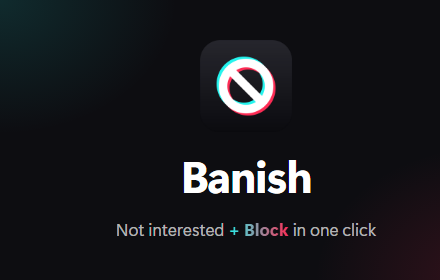
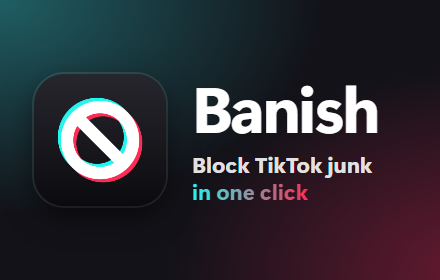
Redesign small promo tile for legibility at store size
Horizontal layout: large icon, white wordmark, short tagline sized to stay readable when the store shows the tile at half size. Keep local store helpers (.cws/) out of git.

diff --git a/store/src/promo-small.html b/store/src/promo-small.html
@@ -1,10 +1,24 @@
 <!doctype html>
-<html><head><meta charset="utf-8"><link rel="stylesheet" href="base.css"></head>
+<html><head><meta charset="utf-8"><link rel="stylesheet" href="base.css">
+<style>
+  /* Small tile is shown at roughly half size in the store: big shapes, few words, strong contrast. */
+  .tile { position: absolute; inset: 0; overflow: hidden;
+    background: radial-gradient(120% 140% at 0% 0%, #1f5e63 0%, transparent 55%),
+                radial-gradient(120% 140% at 100% 100%, #6b1a32 0%, transparent 55%), #121218; }
+  .row { position: absolute; inset: 0; display: flex; align-items: center; gap: 26px; padding: 0 34px; }
+  .row img { width: 132px; height: 132px; flex: none; border-radius: 30px;
+    box-shadow: 0 10px 30px rgba(0,0,0,.5), 0 0 0 2px rgba(255,255,255,.12); }
+  .name { font-size: 64px; font-weight: 800; letter-spacing: -.03em; line-height: 1; color: #fff; }
+  .tag { margin-top: 12px; font-size: 22px; font-weight: 700; line-height: 1.25; color: rgba(255,255,255,.88); }
+  .tag .grad { font-weight: 800; }
+</style></head>
 <body>
-<div class="bg"></div>
-<div style="position:absolute; inset:0; display:flex; flex-direction:column; align-items:center; justify-content:center; gap:14px; text-align:center;">
-  <img src="../../icons/logo512.png" width="92" height="92" alt="">
-  <div style="font-size:44px; font-weight:800; letter-spacing:-.02em;">Banish</div>
-  <div style="font-size:17px; color:rgba(255,255,255,.7);">Not interested <span class="grad" style="font-weight:700">+ Block</span> in one click</div>
+<div class="tile"></div>
+<div class="row">
+  <img src="../../icons/logo512.png" alt="">
+  <div>
+    <div class="name">Banish</div>
+    <div class="tag">Block TikTok junk<br><span class="grad">in one click</span></div>
+  </div>
 </div>
 </body></html>
